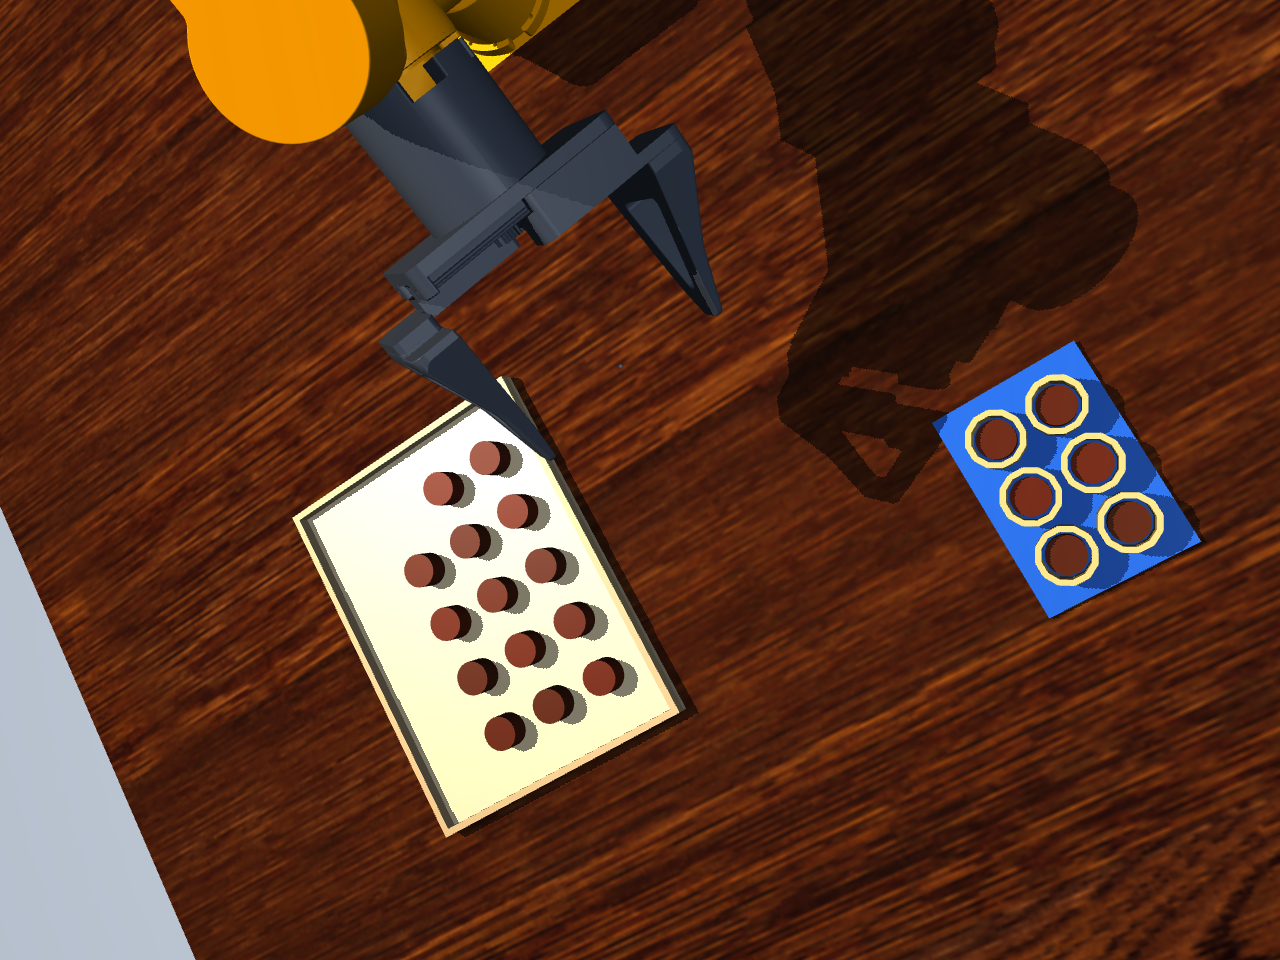
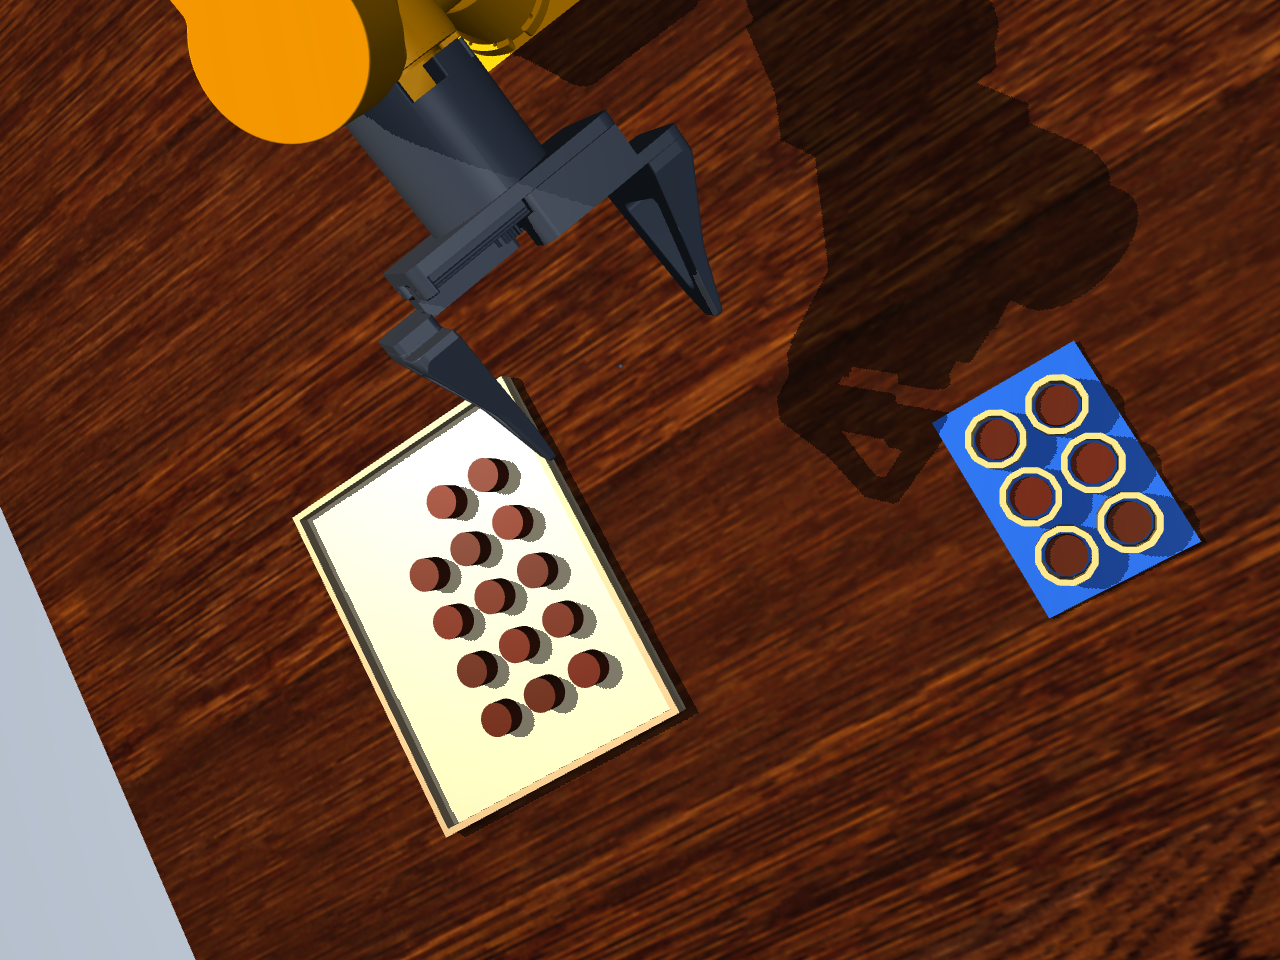
Tighten chocolate source grid to 12 mm clear gaps

Changed region(s): [[0.3125, 0.4375, 0.5, 0.7812]]

diff --git a/sdk/tests/test_simulation_chocolate_grasp.py b/sdk/tests/test_simulation_chocolate_grasp.py
@@ -10,54 +10,54 @@ import pytest
 from waddle_sdk.simulators.scene import make_site
 
 ABOVE = (
-    -0.5085160982,
-    1.8996384844,
-    1.6203781003,
-    -1.2915441853,
-    -0.000007143,
-    -0.5085011016,
+    -0.5133919951,
+    1.9035043043,
+    1.6255589442,
+    -1.2928592084,
+    -7.1335e-06,
+    -0.5133770019,
 )
 TRANSFER = (
-    0.0832253161,
-    1.7297615136,
-    1.4075339546,
-    -1.2485770079,
-    -0.00000758,
-    0.0832404214,
+    0.0768580457,
+    1.7291559463,
+    1.4068279147,
+    -1.2484765357,
+    -7.5819e-06,
+    0.076873151,
 )
 # Independently solved downward TCP poses over the canonical chocolate_13.
 GRASPS = {
     0.018: (
-        -0.508515288,
-        1.9603478283,
-        1.3713086883,
-        -0.9817654249,
-        -0.0000069922,
-        -0.508500348,
+        -0.5133911879,
+        1.9638334077,
+        1.3762743849,
+        -0.983245543,
+        -6.9837e-06,
+        -0.5133762513,
     ),
     0.021: (
-        -0.5085153191,
-        1.9565185419,
-        1.3785012983,
-        -0.9927873242,
-        -0.0000070016,
-        -0.5085003752,
+        -0.5133912186,
+        1.9600190149,
+        1.3834686449,
+        -0.9942541977,
+        -6.993e-06,
+        -0.5133762782,
     ),
     0.024: (
-        -0.50851535,
-        1.9528063309,
-        1.3858316805,
-        -1.0038299174,
-        -0.0000070108,
-        -0.5085004025,
+        -0.5133912495,
+        1.9563215283,
+        1.390801007,
+        -1.0052840469,
+        -7.0021e-06,
+        -0.5133763054,
     ),
     0.027: (
-        -0.508515381,
-        1.9492117615,
-        1.3933004514,
-        -1.0148932577,
-        -0.0000070196,
-        -0.5085004298,
+        -0.5133912802,
+        1.9527415116,
+        1.3982720697,
+        -1.0163351266,
+        -7.0109e-06,
+        -0.5133763326,
     ),
 }
 
@@ -136,7 +136,7 @@ def test_cylinder_retains_bilateral_grasp_through_transport(
             )
             return
         np.testing.assert_allclose(
-            engine.data.body(target).xpos[:2], (0.312, 0.026), atol=0.003
+            engine.data.body(target).xpos[:2], (0.312, 0.024), atol=0.003
         )
         opened = transfer.copy()
         opened[-1] = above[-1]

diff --git a/sdk/tests/test_simulation.py b/sdk/tests/test_simulation.py
@@ -121,7 +121,7 @@ def test_all_reference_declarations_validate_without_opening(
     expected_scene_revision = {
         "candy-bin-transfer": "1.2.0",
         "pick_lift": "1.1.0",
-        "chocolate-packing": "1.0.2",
+        "chocolate-packing": "1.0.3",
     }.get(environment, "1.0.0")
     assert sim["scene_revision"] == expected_scene_revision
     assert sim["asset_revision"] == (
@@ -3840,21 +3840,21 @@ def test_chocolate_packing_native_bilateral_grasp_lifts(tmp_path, robot):
         ),
         "yam": (
             (
-                -0.5073011758,
-                1.9527587169,
-                1.3864839788,
-                -1.0045904466,
-                -0.0003258847,
-                0.0162585578,
+                -0.5121808088,
+                1.9562679639,
+                1.3914444217,
+                -1.0060440962,
+                -0.0003262259,
+                0.0113803864,
                 0.3999989982,
             ),
             (
-                -0.5073832518,
-                1.9063926729,
-                1.5698738174,
-                -1.2342777578,
+                -0.5122536284,
+                1.9101833953,
+                1.574984329,
+                -1.2355984463,
                 -0.00000725,
-                0.0162300983,
+                0.0113611839,
                 0.0,
             ),
         ),

diff --git a/sdk/python/waddle_sdk/simulators/model.py b/sdk/python/waddle_sdk/simulators/model.py
@@ -1279,7 +1279,7 @@ def objects(environment: str, *, robot: str | None = None) -> list[list[Link]]:
                 index = row * 5 + column + 1
                 chocolate = free_cylinder(
                     f"chocolate_{index:02d}",
-                    (0.240 + 0.036 * column, -0.246 + 0.036 * row, 0.011),
+                    (0.248 + 0.032 * column, -0.240 + 0.032 * row, 0.011),
                     (0.30 + 0.025 * (index % 3), 0.115, 0.055, 1.0),
                     radius=0.010,
                     length=0.014,

diff --git a/sdk/python/waddle_sdk/simulators/scene.py b/sdk/python/waddle_sdk/simulators/scene.py
@@ -68,7 +68,7 @@ REFERENCE_EMBODIMENT_REVISION = "1.0.0"
 _ENVIRONMENT_REVISIONS = {
     "pick_lift": ("1.1.0", "1.0.0"),
     "candy-bin-transfer": ("1.2.0", "1.2.0"),
-    "chocolate-packing": ("1.0.2", "1.0.0"),
+    "chocolate-packing": ("1.0.3", "1.0.0"),
 }
 _REVISION = re.compile(r"^[0-9]+\.[0-9]+\.[0-9]+(?:[-+][0-9A-Za-z.-]+)?$")
 

diff --git a/docs/python/simulation.md b/docs/python/simulation.md
@@ -95,11 +95,11 @@ MuJoCo also provides thirty-one interactive development task environments:
   cube, carry it upward by at least 45 mm, and hold it at the lifted pinch for
   500 ms for every reference robot family.
 - `chocolate-packing`: twenty 20 mm diameter, 14 mm tall, 6 g cylinders in a
-  single layer on a source tray, with 16 mm clear gaps for finger access. A blue
+  single layer on a source tray, with 12 mm clear gaps for finger access. A blue
   box has six physical 23 mm diameter pockets with floors and collars. Each
   chocolate declares material friction coefficients; native three-dimensional
   contacts apply sliding friction (finger-priority contacts use the finger's
-  coefficient). Scene revision 1.0.2 adds a 1 micrometre chocolate contact margin
+  coefficient). Scene revision 1.0.3 tightens the centered grid to 32 mm spacing and retains a 1 micrometre chocolate contact margin
   to use iterative cylinder multicontact, avoiding lost grasps on MuJoCo 3.13.0
   without increasing friction or reducing gripper force. Native acceptance checks
   sustained bilateral lift/carry and gravity-driven release, including a missed

diff --git a/AGENTS.md b/AGENTS.md
@@ -82,7 +82,8 @@ The S19 reference fixture uses eighteen same-color 24 mm cubes in one irregular
 source pile and a separate adjacent wide destination bin sized for all eighteen;
 the SDK scene does not reset individual transfers or define their success/order.
 The S20 chocolate-packing scene has twenty single-layer 20 mm cylinders in a
-source tray and a six-pocket box. Scene revision 1.0.2 uses a 1 micrometre
+source tray and a six-pocket box. Scene revision 1.0.3 uses 12 mm clear gaps
+and retains a 1 micrometre
 chocolate contact margin for stable iterative cylinder multicontact, including
 MuJoCo 3.13.0. Test sustained bilateral transport and release on the actual
 evaluation engine version; the earlier 3.11-only pinch test missed that regression.

diff --git a/CHANGELOG.md b/CHANGELOG.md
@@ -19,6 +19,9 @@ ships; this root file always carries `[Unreleased]` plus pointers.
 
 ### Changed
 
+- Tighten the chocolate grid to 12 mm clear gaps (32 mm centers) in scene
+  1.0.3, keeping twenty 20 mm cylinders and the validated contact margin.
+
 - Move the chocolate-packing camera above the box in scene revision 1.0.1,
   keeping both trays visible while reducing pocket-mouth depth parallax.
 
